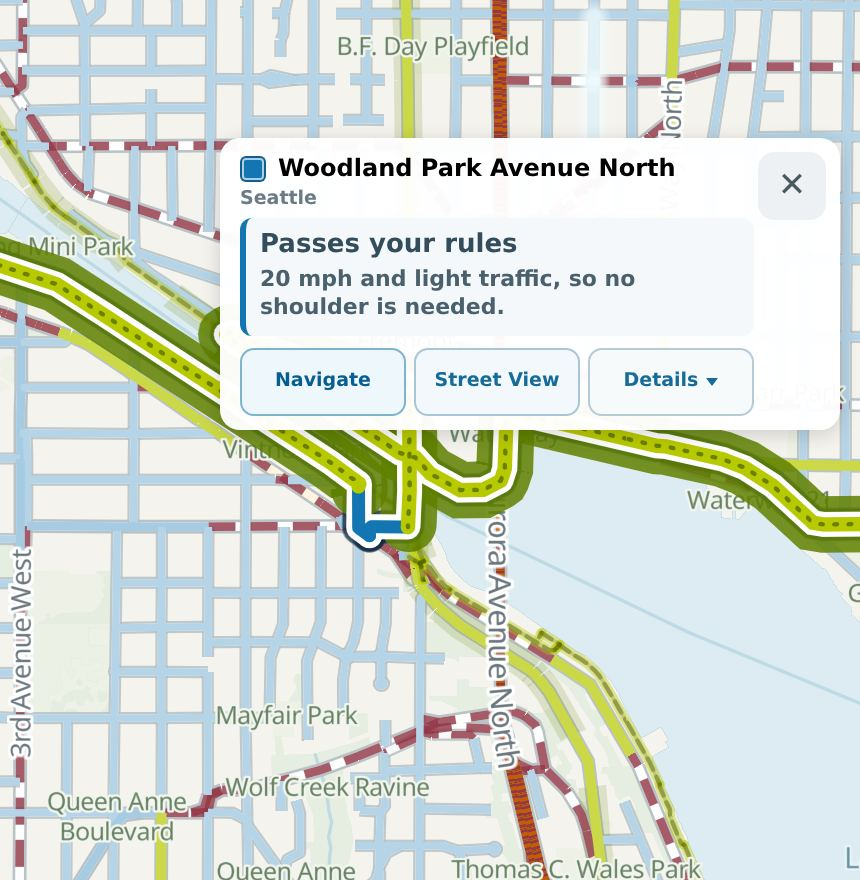
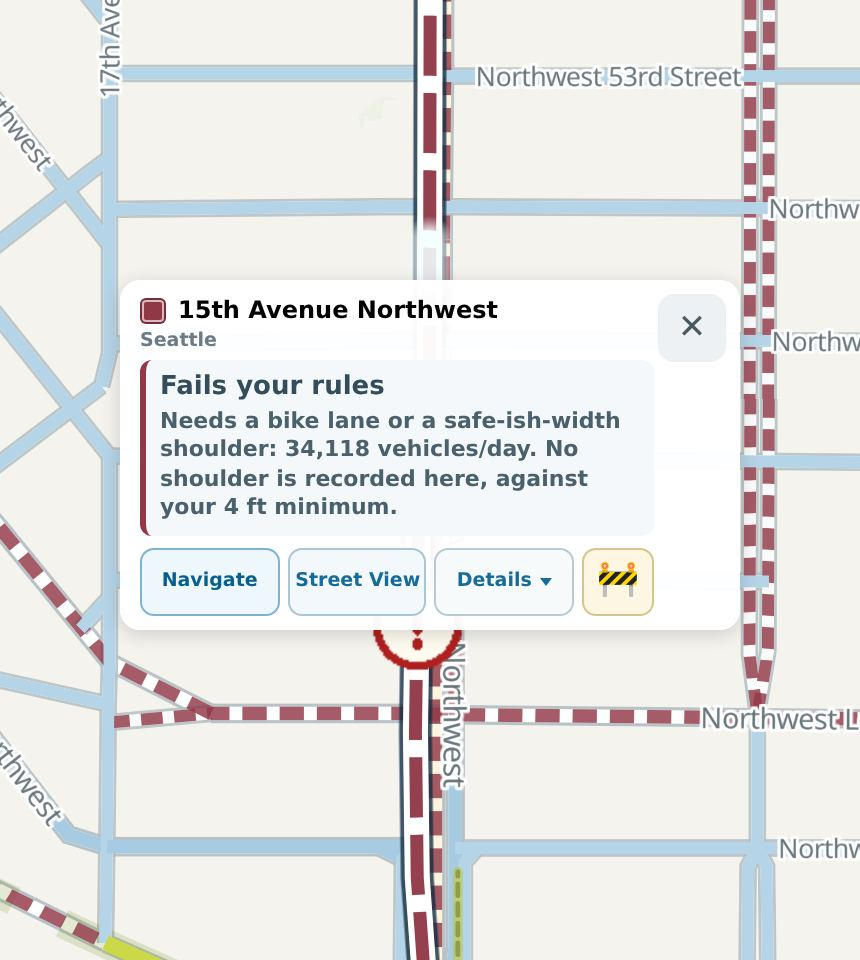
Tour pass two: a real red-stretch story and an honest nav shot (.714)
Rider feedback on the first cut: no route with red segments, no failing
road explained, the Ride It shot missed the route, and the nav banner led
with the wake-lock notice. All four fixed by restaging, not retouching:

- New 'Red stretches are never hidden' step: a second trip pinned to both
  ends of 15th Ave NW, highest-fail option activated, so the active route
  rides ~1 km of dark-red dashes with the warning badge -- deterministic
  across reshoots because the corridor ride always exists in the portfolio
  while the recommended pick detours around it.
- The tap-a-road step now taps THAT failing road: 'Fails your rules --
  needs a bike lane or a safe-ish-width shoulder: 34,118 vehicles/day. No
  shoulder is recorded here, against your 4 ft minimum.'
- The navigate scene walks the fake GPS a third of the way along the route
  before shooting: the banner reads 'In 1.1 miles - Bear right onto 3rd
  Avenue North' with the rider puck on the route line, and the headless
  wake-lock notice is cleared before the shot with a comment saying why.
- Staging bug found: waiting on routing.last.ok let trip 2 read trip 1's
  stale portfolio (ok never goes false between trips), so the wrong option
  got activated once. The shoot script now waits for a NEW portfolio.

Rebased over 'Expand active route guide', which had already claimed .713;
this release is .714 / sw v692.

Claude-Session: https://claude.ai/code/session_01J6s25vbsXbCo3dDnagYox9

diff --git a/app.js b/app.js
@@ -15,7 +15,7 @@
  *     used for color. Re-scoring is instant and client-side (no refetch).
  */
 
-const APP_VERSION = '2026-08-15.713';
+const APP_VERSION = '2026-08-15.714';
 // All three defined once in build-version.js, which sw.js importScripts() as
 // well. The version numbers used to be spelled out separately here with
 // comments pointing at the other file, and the URL still was -- in a spelling
@@ -4952,14 +4952,20 @@ const ONBOARDING_STEPS = [
     copy: 'Streets are colored by your rules: blue passes, olive-green marks designated bike routes and trails, orange needs caution, and dark-red dashes fail. Change a rule in Settings and the whole map recolors.',
   },
   {
+    img: 'onboarding/tour-warning.jpg',
+    alt: 'A route with a long dark-red dashed stretch marked by a warning badge',
+    title: 'Red stretches are never hidden',
+    copy: 'A route may still use a road that fails your rules — often there’s no other way through. That stretch is drawn in dark-red dashes with a warning badge, so you see it before you commit, not when you’re on it.',
+  },
+  {
     img: 'onboarding/tour-road.jpg',
-    alt: 'A road card explaining why a street passes the safety rules',
-    title: 'Every road explains itself',
-    copy: 'Curious about a road? Tap it. You’ll see its speed and traffic, why it passes or fails your rules, and a Street View button to eyeball it before you commit.',
+    alt: 'A road card naming the broken rule: heavy traffic with no shoulder recorded',
+    title: 'Tap it to see why',
+    copy: 'Tap any road — especially a red one. The card names the exact rule it breaks and the numbers behind it, and Street View lets you eyeball the road before deciding for yourself.',
   },
   {
     img: 'onboarding/tour-navigate.jpg',
-    alt: 'Turn-by-turn navigation running with distance and time remaining',
+    alt: 'Turn-by-turn navigation showing the next maneuver and the route ahead',
     title: 'Ride it',
     copy: 'Navigate starts GPS turn-by-turn with voice guidance, including heads-up warnings for dismounts, heavy traffic, and steep hills as you approach them.',
   },

diff --git a/sw.js b/sw.js
@@ -25,7 +25,7 @@ const stateFile = (name) => `${DATA_ROOT}/${name}`;
 // invisible to everyone who already has the app. v642 was maps/states.js
 // gaining Oregon (that file is SHELL, not data: it is the index naming which
 // states exist). v643 was app.js and styles.css; v644 app.js; v645 app.js and palette.js.
-const VERSION = 'v691'; // bump when app shell changes
+const VERSION = 'v692'; // bump when app shell changes
 const SHELL_CACHE = `shell-${VERSION}`;
 // Keep the large offline dataset across ordinary UI-only app releases.
 //
@@ -72,6 +72,7 @@ const SHELL = [
   './onboarding/tour-plan.jpg',
   './onboarding/tour-routes.jpg',
   './onboarding/tour-colors.jpg',
+  './onboarding/tour-warning.jpg',
   './onboarding/tour-road.jpg',
   './onboarding/tour-navigate.jpg',
 ];
